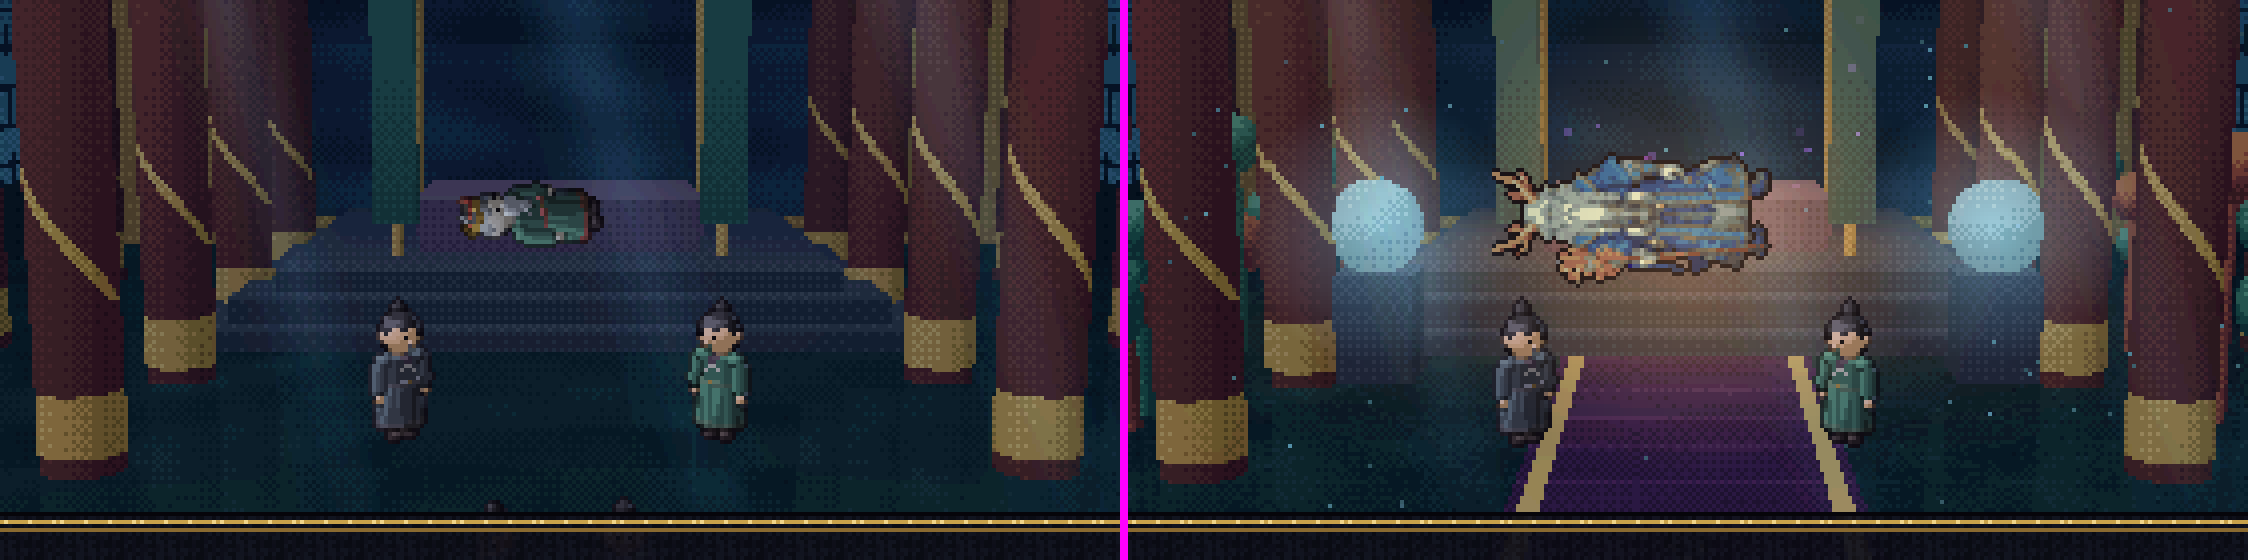
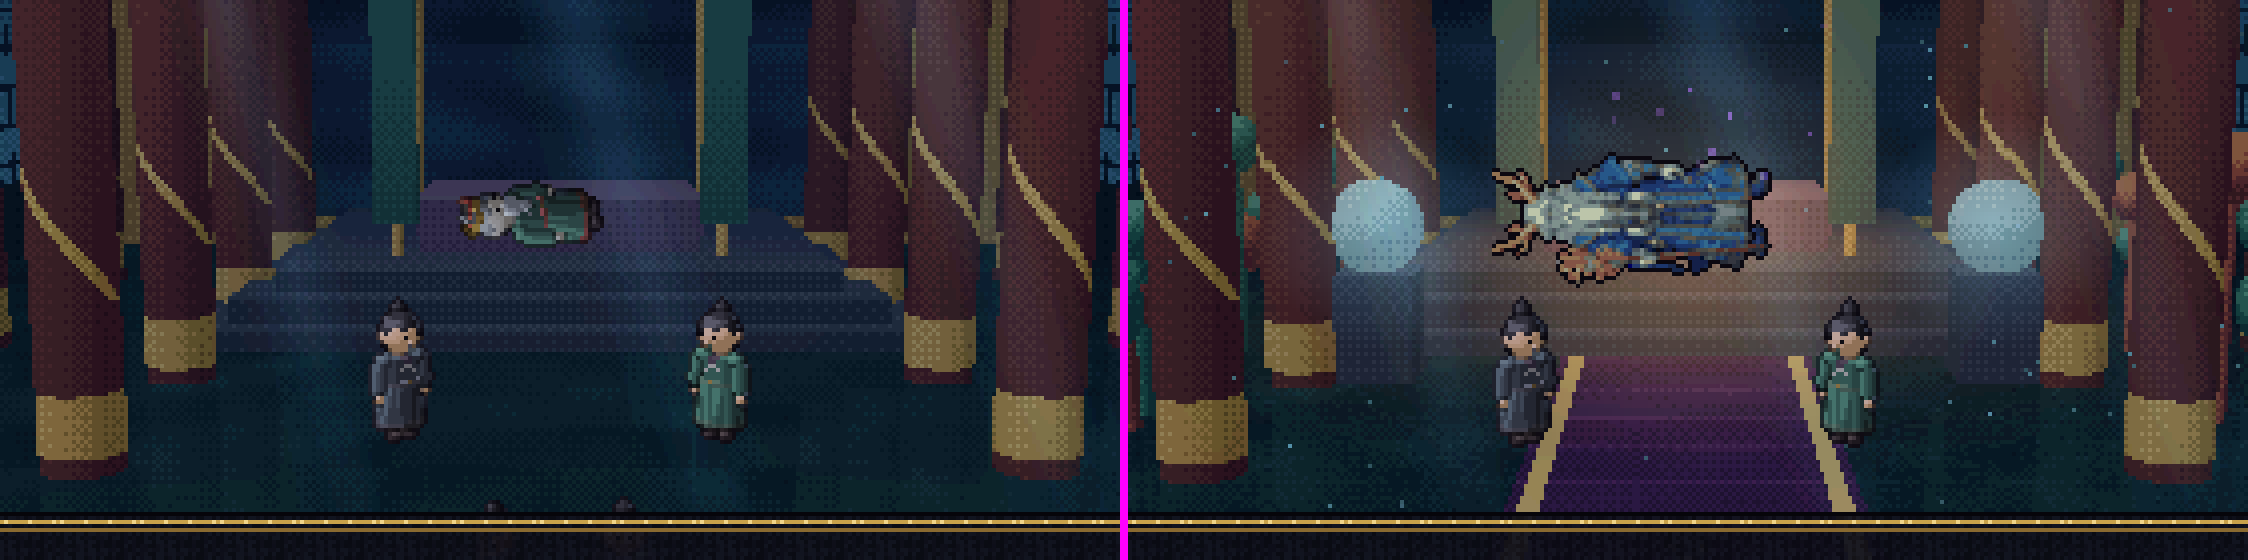
art(intro): 전/후 캡처(4배 확대 포함)·intro-review 개선 내용

Changed region(s): [[0.6851, 0.2732, 0.8096, 0.5161], [0.8719, 0.3339, 0.903, 0.4857], [0.5916, 0.3643, 0.6228, 0.4554]]

diff --git a/production/qa/intro-review.md b/production/qa/intro-review.md
@@ -24,3 +24,23 @@
 7. 정전·밤바다에 환경 모션(기포, 귀화, 먼지, 불빛 깜박임) 없음.
 8. 자막: 가독성은 양호(크림색+검정 외곽선 4px). 타이밍(페이드 0.8s·유지 2.6~3.2s)도 사장님 확인으로 유지.
 **유지 항목(바꾸지 않음)**: 재생 속도·타이밍, 스킵(건너뛰기/pause), `intro_seen` 설정·세이브·진행 플래그, 자막 "노래가 완성되면 —".
+
+## 개선 내용 (이번 브랜치 asset/intro-polish)
+타이밍(페이드·자막 길이·대화 진행)은 코드상 수치 그대로. 연출은 전부 기존 시간에 겹쳐 도는 추가 트윈/파티클이라 총 재생 길이 불변.
+**용궁 원경(샷1)** `art/intro.py`
+- 용궁 실루엣에 림라이트(지붕 윗선)·따뜻한 창불/진주빛 창·종 달린 용마루, 주위에 진주빛 번짐(가산 글로우, 천천히 숨쉬기).
+- 중경 산호·해부채 레이어 신설(`intro_sea_mid.png`)로 시차 3겹→4겹(원경·중경·근경·안개), 플랑크톤 점, 해초 가장자리 림라이트.
+- 켈프/중경 슬라이스 음수 인덱스 버그(화면 전폭 검은 띠) 수정.
+- 탁기 입자를 보라색으로(안 보이던 것 가시화), 귀화 불티·플랑크톤 파티클 추가, 9초 동안 천천히 푸시인.
+**용궁 정전(샷2–3)** `art/intro_hall3d.py` (3D 렌더러에 추가)
+- 바닥: 체크무늬 → 청해파(비늘) 문양 + 금테 두른 보라 카펫 러너(시선을 용왕 침상으로).
+- 산호 군락(2색), 연단 옆 석대 위 큰 진주 2개, 들보에 매달린 진주 줄, 기둥 위 단청 공포, 창밖을 스치는 물고기 실루엣, 침상 위 따뜻한 등불(차가운 홀의 유일한 온색), 부유 먼지.
+- 게임 내: 진주등 글로우(숨쉬기), 기포 상승, 용왕 침상에서 피어오르는 탁기, 컷 내내 천천히 푸시인(1.0→1.06). 글로우는 인물 아래 레이어라 용왕·형제가 번지지 않음.
+**샷4/타이틀** 밤바다: 달 번짐, 마을 지붕·창불·물 위 반영, 달길 반짝임, 처용 머리 일렁임, 푸시인. 타이틀: 달빛 번짐 숨쉬기.
+**유지**: 자막 "노래가 완성되면 —"(story.gd, 미변경), 건너뛰기/pause, intro_seen·세이브·진행 플래그 전부 미변경(intro.gd/title.gd는 시각 노드만 추가).
+
+## 전/후 캡처 (`production/qa/asset-import/intro/`)
+`shotN_*_4x_before_after.png`(좌 전/우 후, 4배 확대), `*_1x.png`, `before/after_overview.png`(0.5초 간격 프레임 모음).
+직접 열어 확인: 번짐 없음(NEAREST 확대에서도 도트 경계 유지), 흰 판 없음(진주 글로우 알파 0.36 이하·인물 아래), 팔레트 이탈 없음(1장 어두운 청남색 + 따뜻한 등불 + 보랏빛 귀화). 
+주의: '전' 캡처의 용왕 스프라이트는 구버전(캐시된 이전 NPC 시트)이라 후 캡처와 모양이 다름 — main 의 d707187(NPC Drive 임포트) 효과이며 이번 변경 아님.
+캡처 명령: `--fixed-fps 60 -- --intro --capture=out.png --every=30 --frames=2900 --seq=confirm:700,…` (capture.gd 에 `--every=N` 추가).
